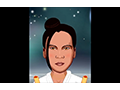
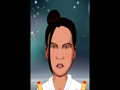
Thumbnail fixes

diff --git a/src/client/ui/VidPicker.js b/src/client/ui/VidPicker.js
@@ -45,6 +45,8 @@ VidPicker.prototype.addVideo = function (key, title, url) {
     var row = Math.floor(this.thumbs.length / COLUMNS);
     var col = this.thumbs.length % COLUMNS;
     var thumb = this.game.add.image(BORDER + col * (THUMB_W + HPAD), BORDER + row * (THUMB_H + VPAD), key, null, this);
+    thumb.width = THUMB_W;
+    thumb.height = THUMB_H;
     thumb.inputEnabled = true;
     thumb.events.onInputUp.add(function () {
         self.close();
